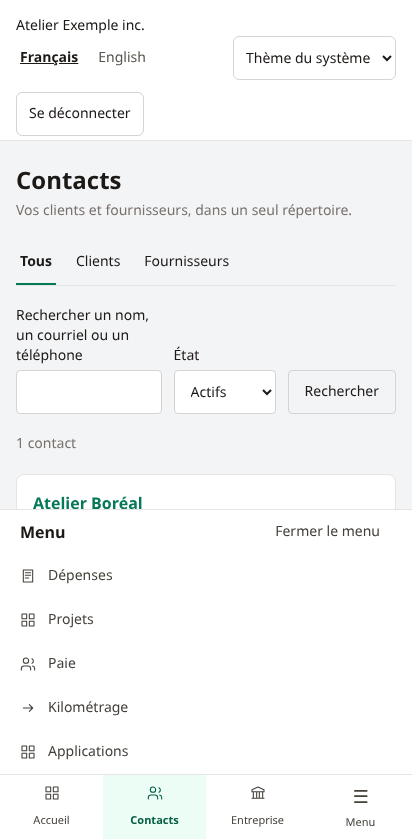
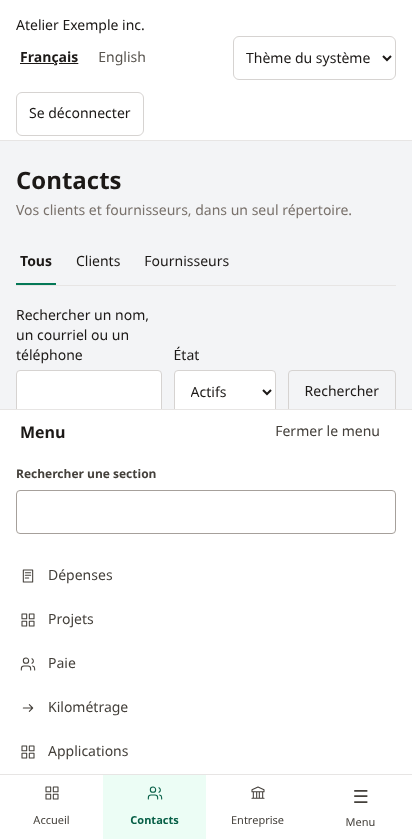
feat(navigation): search authorized sections on desktop and mobile

diff --git a/src/app/c/[companyId]/nav.tsx b/src/app/c/[companyId]/nav.tsx
@@ -12,21 +12,33 @@ export type NavLink = { href: string; label: string; shortLabel?: string; icon: 
 export function CompanyNav({ links, label, tabs = false }: { links: NavLink[]; label: string; tabs?: boolean }) {
   const pathname = usePathname();
   const [open, setOpen] = useState(false);
+  const [query, setQuery] = useState("");
   const menuId = useId();
   const toggle = useRef<HTMLButtonElement>(null);
   const t = useTranslations("nav");
   const current = (link: NavLink) => link === links[0] ? pathname === link.href : pathname === link.href || pathname.startsWith(`${link.href}/`);
-  const close = () => { setOpen(false); toggle.current?.focus(); };
-  const item = (link: NavLink, mode: "desktop" | "mobile" | "panel") => <Link key={link.href} href={link.href} aria-label={link.label} aria-current={current(link) ? "page" : undefined} onClick={() => setOpen(false)}
+  const close = () => { setOpen(false); setQuery(""); toggle.current?.focus(); };
+  const normalize = (value: string) => value.normalize("NFD").replace(/[\u0300-\u036f]/g, "").toLocaleLowerCase();
+  const words = normalize(query).trim().split(/\s+/).filter(Boolean);
+  const results = links.filter(link => words.every(word => normalize(`${link.label} ${link.shortLabel ?? ""}`).includes(word)));
+  const search = (mode: "desktop" | "panel") => <div className="space-y-2 px-4 py-3">
+    <label className={`block text-xs font-semibold ${mode === "desktop" ? "text-stone-200" : "text-stone-700 dark:text-stone-200"}`}>
+      {t("search")}
+      <input type="search" value={query} onChange={event => setQuery(event.target.value)} className={`mt-2 min-h-11 w-full rounded border border-stone-400 bg-white px-3 text-sm text-stone-900 dark:border-stone-600 dark:bg-stone-900 dark:text-white ${FOCUS}`} />
+    </label>
+    {query && <button type="button" onClick={() => setQuery("")} className={`min-h-11 text-sm underline ${mode === "desktop" ? "text-stone-200" : "text-stone-700 dark:text-stone-200"} ${FOCUS}`}>{t("clearSearch")}</button>}
+    <p role={words.length > 0 ? "status" : undefined} aria-live="polite" className={`text-xs ${mode === "desktop" ? "text-stone-200" : "text-stone-600 dark:text-stone-300"}`}>{words.length > 0 ? results.length ? t("searchCount", { count: results.length }) : t("searchEmpty") : ""}</p>
+  </div>;
+  const item = (link: NavLink, mode: "desktop" | "mobile" | "panel") => <Link key={link.href} href={link.href} aria-label={link.label} aria-current={current(link) ? "page" : undefined} onClick={() => { setOpen(false); setQuery(""); }}
     className={`flex min-h-11 min-w-0 items-center gap-3 ${FOCUS} ${mode === "mobile" ? "min-h-16 flex-col justify-center gap-1 px-1 py-2 text-center text-[11px]" : "px-5 py-3 text-sm"} ${current(link) ? mode === "desktop" ? "border-l-3 border-brand-500 bg-black/40 font-semibold text-white" : "bg-brand-50 font-semibold text-brand-800 dark:bg-brand-800 dark:text-white" : mode === "desktop" ? "text-stone-200 hover:bg-black/20" : "text-stone-700 hover:bg-stone-100 dark:text-stone-200 dark:hover:bg-stone-800"}`}>
     <Icon name={link.icon} className="h-4 w-4 shrink-0" /><span>{mode === "mobile" ? link.shortLabel ?? link.label : link.label}</span>
   </Link>;
   if (tabs) return <nav aria-label={label} className="hidden gap-5 overflow-x-auto border-b border-stone-200 bg-white px-6 dark:border-stone-800 dark:bg-stone-900 lg:flex">{links.map((link) => <Link key={link.href} href={link.href} aria-current={current(link) ? "page" : undefined} className={`flex min-h-12 shrink-0 items-center border-b-3 px-1 text-xs ${FOCUS} ${current(link) ? "border-brand-700 font-semibold" : "border-transparent text-stone-500 dark:text-stone-400"}`}>{link.label}</Link>)}</nav>;
   return <nav aria-label={label} onKeyDown={(event) => { if (event.key === "Escape" && open) { event.preventDefault(); close(); } }} className="mobile-navigation fixed inset-x-0 bottom-0 z-30 border-t border-stone-200 bg-white dark:border-stone-800 dark:bg-stone-900 lg:static lg:min-h-0 lg:flex-1 lg:overflow-y-auto lg:border-0 lg:bg-transparent lg:dark:bg-transparent">
-    <div className="hidden lg:block">{links.map((link) => item(link, "desktop"))}</div>
+    <div className="hidden lg:block">{search("desktop")}{results.map((link) => item(link, "desktop"))}</div>
     <div className="lg:hidden">
-      {open && <div id={menuId} className="max-h-[65dvh] overflow-y-auto border-b border-stone-200 dark:border-stone-800"><div className="flex items-center justify-between px-5"><h2 className="font-semibold text-stone-900 dark:text-white">{t("menu")}</h2><button type="button" onClick={close} className={`min-h-11 px-3 text-sm text-stone-700 dark:text-stone-200 ${FOCUS}`}>{t("closeMenu")}</button></div>{links.slice(3).map((link) => item(link, "panel"))}</div>}
-      <div className="grid grid-cols-4">{links.slice(0, 3).map((link) => item(link, "mobile"))}<button ref={toggle} type="button" aria-expanded={open} aria-controls={open ? menuId : undefined} onClick={() => setOpen(!open)} className={`flex min-h-16 flex-col items-center justify-center gap-1 px-1 text-[11px] ${FOCUS} ${links.slice(3).some(current) ? "bg-brand-50 font-semibold text-brand-800 dark:bg-brand-800 dark:text-white" : "text-stone-700 dark:text-stone-200"}`}><span aria-hidden="true" className="text-lg">☰</span>{t("menu")}</button></div>
+      {open && <div id={menuId} className="max-h-[65dvh] overflow-y-auto border-b border-stone-200 dark:border-stone-800"><div className="flex items-center justify-between px-5"><h2 className="font-semibold text-stone-900 dark:text-white">{t("menu")}</h2><button type="button" onClick={close} className={`min-h-11 px-3 text-sm text-stone-700 dark:text-stone-200 ${FOCUS}`}>{t("closeMenu")}</button></div>{search("panel")}{(words.length > 0 ? results : links.slice(3)).map((link) => item(link, "panel"))}</div>}
+      <div className="grid grid-cols-4">{links.slice(0, 3).map((link) => item(link, "mobile"))}<button ref={toggle} type="button" aria-expanded={open} aria-controls={open ? menuId : undefined} onClick={() => { setQuery(""); setOpen(!open); }} className={`flex min-h-16 flex-col items-center justify-center gap-1 px-1 text-[11px] ${FOCUS} ${links.slice(3).some(current) ? "bg-brand-50 font-semibold text-brand-800 dark:bg-brand-800 dark:text-white" : "text-stone-700 dark:text-stone-200"}`}><span aria-hidden="true" className="text-lg">☰</span>{t("menu")}</button></div>
     </div>
   </nav>;
 }

diff --git a/tests/e2e/journey.spec.ts b/tests/e2e/journey.spec.ts
@@ -1339,7 +1339,7 @@ async function bankImportJourney(page: Page) {
   // setting a line aside and bringing it back, and the filters
   await page.getByRole("button", { name: "Mettre de côté : ABONNEMENT LOGICIEL", exact: true }).click();
   await expect(page.locator("li").filter({ hasText: "ABONNEMENT LOGICIEL" })).toContainText("Mise de côté");
-  await page.getByLabel("Recherche").fill("abonnement");
+  await page.getByLabel("Recherche", { exact: true }).fill("abonnement");
   await page.getByRole("button", { name: "Filtrer", exact: true }).click();
   await expect(page.getByText("1 transaction", { exact: true })).toBeVisible();
   await page.getByRole("button", { name: "Remettre à traiter : ABONNEMENT LOGICIEL", exact: true }).click();
@@ -1999,6 +1999,16 @@ async function membersJourney(page: Page, browser: Browser) {
   if (process.env.E2E_MOBILE === "1") await guest.getByRole("button", { name: "Menu", exact: true }).click();
   await expectNoPageOverflow(guest);
   await captureReference(guest, "navigation-restreinte");
+  const navigationSearch = guest.getByRole("searchbox", { name: "Rechercher une section" }).filter({ visible: true });
+  await navigationSearch.fill("DEPENSES");
+  await expect(guest.getByRole("navigation", { name: "Navigation de l'entreprise" }).getByRole("status").filter({ visible: true })).toHaveText("1 section trouvée");
+  await expect(guest.getByRole("link", { name: "Dépenses", exact: true })).toBeVisible();
+  await captureReference(guest, "navigation-recherche");
+  await navigationSearch.fill("rapports");
+  await expect(guest.getByRole("navigation", { name: "Navigation de l'entreprise" }).getByRole("status").filter({ visible: true })).toHaveText("Aucune section trouvée.");
+  await guest.getByRole("button", { name: "Effacer la recherche" }).filter({ visible: true }).click();
+  await expect(navigationSearch).toHaveValue("");
+
   for (const area of ["rapports", "ventes", "banque"]) expect((await guest.goto(`${company}/espace/${area}`))?.status()).toBe(404);
   await guest.goto(`${company}/espace/depenses`);
   await expect(guest.locator(`a[href="${company}/catalogue"]`)).toHaveCount(0);

diff --git a/docs/Interface-et-navigation.md b/docs/Interface-et-navigation.md
@@ -38,3 +38,13 @@ La navigation tient compte des [[Utilisateurs-et-permissions]], y compris dans l
 
 ![Navigation avec accès limité aux contacts — ordinateur](images/navigation-restreinte-desktop.png)
 ![Navigation avec accès limité aux contacts — téléphone](images/navigation-restreinte-mobile.png)
+
+## Rechercher une section
+
+Le champ **Rechercher une section** filtre le menu latéral sur ordinateur. Sur téléphone, ouvre **Menu** pour retrouver le même champ. La recherche ignore les majuscules et les accents : « depenses » retrouve « Dépenses ». Plusieurs mots peuvent être saisis dans n’importe quel ordre.
+
+Seules les sections autorisées pour ton compte sont proposées. Cette recherche porte sur les noms des sections, pas sur les données des clients ni sur les factures. **Effacer la recherche** rétablit le menu; choisir un lien efface aussi la recherche. Le compteur annonce le nombre de résultats et un message indique quand aucune section ne correspond. Le champ et les résultats suivent la langue et le thème de l’interface.
+
+![Recherche du menu sur ordinateur](images/navigation-recherche-desktop.png)
+
+![Recherche du menu sur téléphone](images/navigation-recherche-mobile.png)

diff --git a/CHANGELOG.md b/CHANGELOG.md
@@ -4,6 +4,8 @@ Format basé sur [Keep a Changelog](https://keepachangelog.com/fr/1.1.0/); versi
 
 ## [Non publié]
 
+- Recherche des sections dans le menu ordinateur et mobile : accents et casse ignorés, compteur et état vide, effacement, français/anglais et respect des permissions.
+
 - Navigation : menus, onglets et espaces filtrés selon les permissions modulaires; intégrations réservées aux admins, âge clients soumis aux ventes et à la comptabilité, accès direct aux espaces interdits refusé. Contrôles navigateur de révocation et de rétablissement des accès sur ordinateur et téléphone.
 
 ## [0.4.0-alpha.14] - 2026-10-26

diff --git a/README.md b/README.md
@@ -230,3 +230,11 @@ Les menus et raccourcis s’adaptent aux accès de chaque membre ([guide](docs/U
 
 ![Navigation d’un compte limité aux contacts](docs/images/navigation-restreinte-desktop.png)
 ![Menu mobile du même compte](docs/images/navigation-restreinte-mobile.png)
+
+### Recherche des sections
+
+Retrouve une section autorisée depuis le menu, sur ordinateur ou téléphone, sans tenir compte des accents. [Guide](docs/Interface-et-navigation.md#rechercher-une-section).
+
+![Recherche dans le menu](docs/images/navigation-recherche-desktop.png)
+
+![Recherche mobile](docs/images/navigation-recherche-mobile.png)

diff --git a/docs/References-visuelles.md b/docs/References-visuelles.md
@@ -267,3 +267,11 @@ Compte fictif limité à la lecture des contacts : les raccourcis financiers son
 
 ![Navigation restreinte — ordinateur](images/navigation-restreinte-desktop.png)
 ![Navigation restreinte — téléphone](images/navigation-restreinte-mobile.png)
+
+## Recherche dans la navigation
+
+Recherche sans accents d’une section autorisée, avec un compte aux permissions limitées.
+
+![Recherche sur ordinateur](images/navigation-recherche-desktop.png)
+
+![Recherche sur mobile](images/navigation-recherche-mobile.png)
